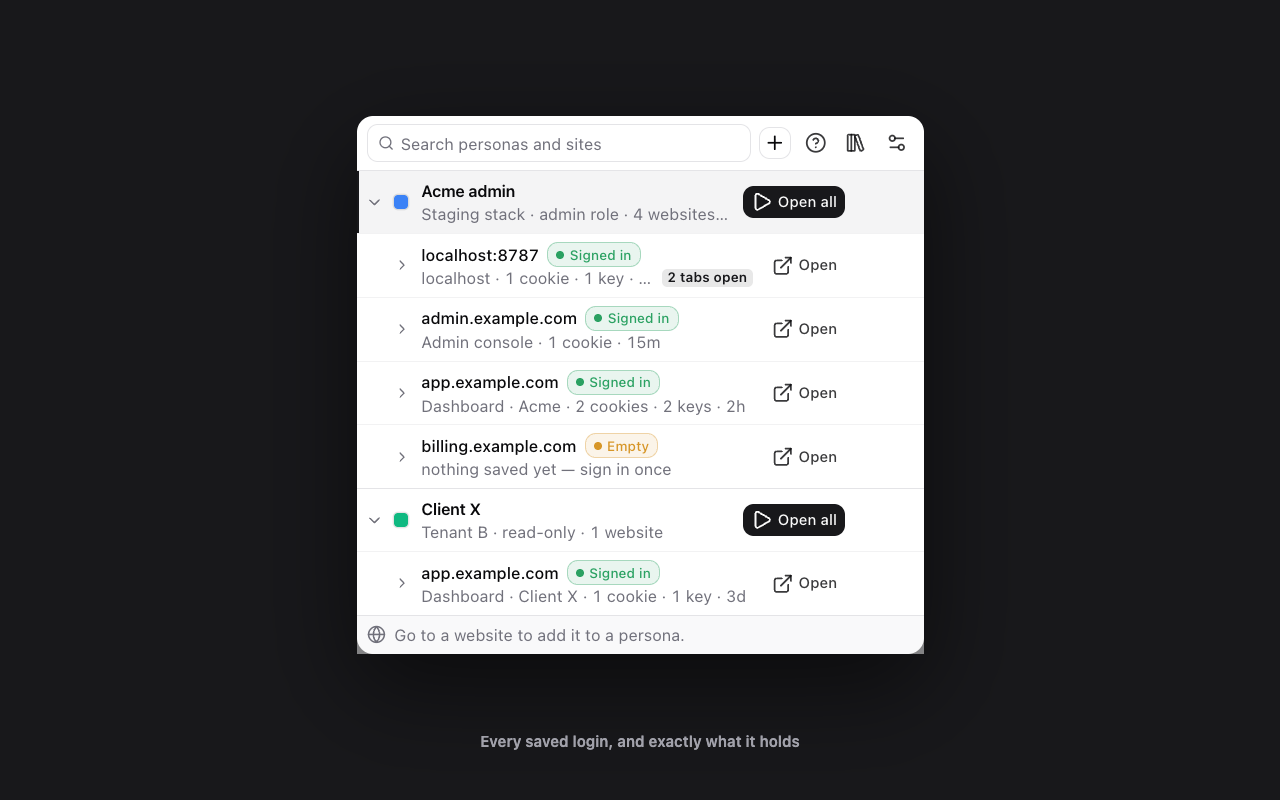
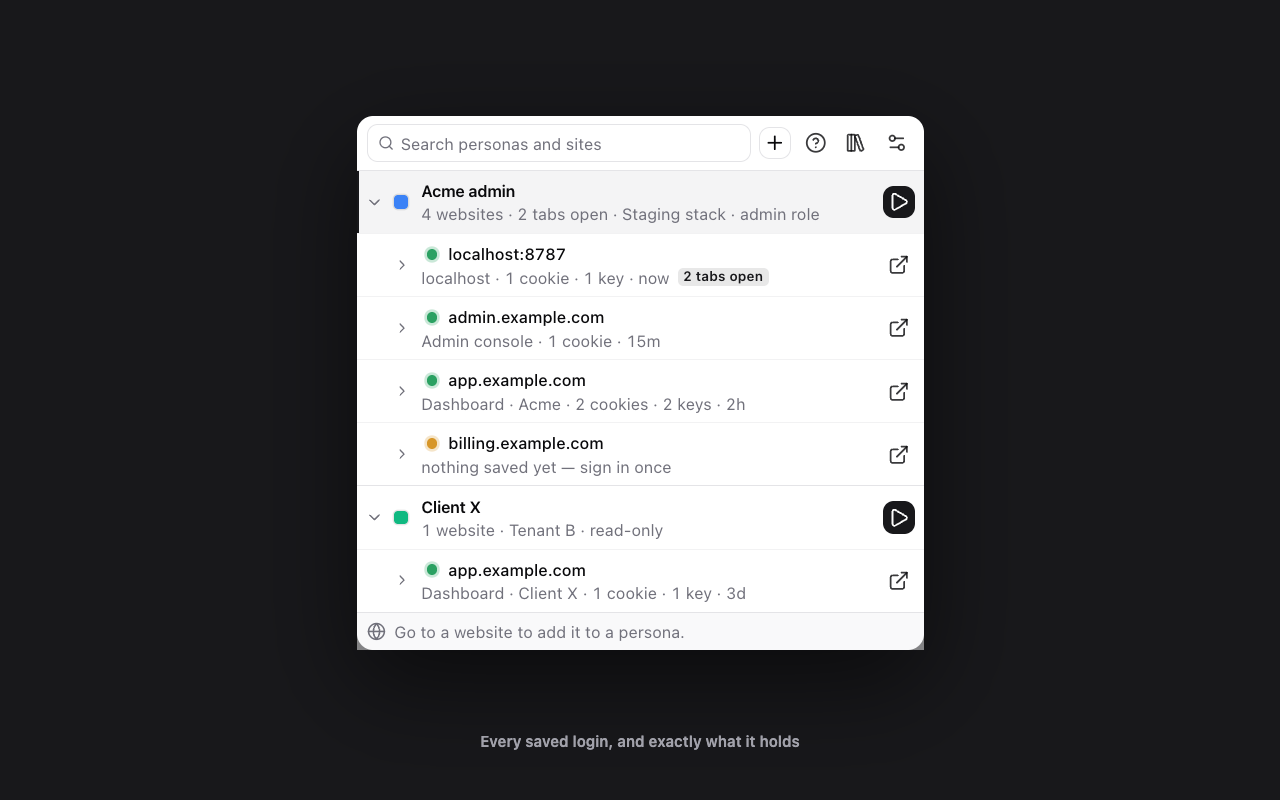
chore: release 0.3.1
Bump to 0.3.1 (manifest, both package.json files), cut the 0.3.1 changelog section.
Refresh the Store and README screenshots: the sign-in gate and the Settings sidebar
are now captured from the real built extension (spike/make-screenshots.mjs).
Update the Store listing for allow on all sites, the sign-in gate, use my normal
login on, the Settings sidebar and tab groups, and refresh the test counts.

diff --git a/brand/store/LISTING.md b/brand/store/LISTING.md
@@ -35,7 +35,14 @@ WHAT IT DOES
 • Open a whole persona in one click
 • Two accounts on one site, live at the same time
 • Duplicate a persona, logins included, to spin up another tenant
+• Every persona opens in its own Chrome tab group, named and coloured after it
 • Export and import personas
+
+SIGN-IN THROUGH OTHER WEBSITES
+Many apps sign you in through another website (WorkOS, Auth0, Okta, Google). If a persona tab reached one of those with your normal browser login, it would come back signed in as YOU. So a persona tab stops BEFORE it visits a website Tabsona is not allowed on, sends nothing, and asks: Allow and continue, Allow on all sites, or Open in a normal tab. Allow on all sites is one Chrome prompt, asked once and off until you click it. A sign-in chain you have seen is remembered, so one prompt covers it, and a red alert in the popup tells you when a persona is signed in through a website that is not allowed.
+
+USE MY NORMAL LOGIN ON CHOSEN WEBSITES
+Sign in with Google from a persona: add accounts.google.com to a short list in Settings and a persona tab reaches it with your browser's own login, while the app's own login stays separate per persona. Opt-in, nothing is on the list until you add it, and the badge on those pages says so in plain words.
 
 WHY IT IS DIFFERENT
 Most multi-login extensions isolate cookies only, so the moment an app keeps its token in localStorage — which most modern apps do — both tabs show the same user and nothing tells you. Tabsona isolates page storage too, and when it cannot fully isolate a site it SAYS SO on the tab rather than letting you assume.
@@ -46,7 +53,7 @@ WHAT IT IS NOT
 This is a developer tool for testing your own applications. It does not spoof your browser fingerprint, does not route traffic through proxies, and is not built for evading bans or platform rules. Every persona shares your real browser fingerprint.
 
 PRIVACY
-Everything stays on your machine in local extension storage. No server, no account, no telemetry, nothing is uploaded. Site access is granted one site at a time, by you, through Chrome's own permission prompt.
+Everything stays on your machine in local extension storage. No server, no account, no telemetry, nothing is uploaded. Site access is granted by you, through Chrome's own permission prompt: one website at a time, or every website once with Allow on all sites. Nothing is granted until you click.
 
 Open source: https://github.com/khanakia/tabsona
 ```
@@ -57,15 +64,15 @@ The dashboard asks for one line per permission. Vague answers are the most commo
 
 | Permission | Justification |
 |---|---|
-| `declarativeNetRequest` | Replaces the Cookie header on tabs the user has placed in a persona, so each tab sends its own saved login, and strips Set-Cookie from those responses so a persona's login does not leak into the browser's shared cookie jar. |
+| `declarativeNetRequest` | Replaces the Cookie header on tabs the user has placed in a persona, so each tab sends its own saved login, and strips Set-Cookie from those responses so a persona's login does not leak into the browser's shared cookie jar. Also blocks, for a persona tab only, a navigation to a website the user has not allowed, so the sign-in gate can ask first; the rules never apply to a tab outside a persona. |
 | `webRequest` | Read-only observation of response headers on user-approved sites, to capture the Set-Cookie a site issues into the persona that tab belongs to. No blocking and no modification is performed through this API. |
 | `cookies` | Reads the cookies of a site the user explicitly chooses to save into a persona, and removes them from the browser's own jar when the user chooses Move rather than Copy. |
 | `storage` | Stores personas, saved sessions and settings locally. Nothing is transmitted. |
 | `tabs` | Maps each tab to the persona it belongs to and opens a persona's sites as tabs. |
-| `scripting` | Injects the storage isolation script and the in-page badge on sites the user has approved. |
-| `webNavigation` | Detects a tab opened from a link inside a persona's tab, so it stays in that persona instead of falling back to the shared login. |
-| `tabGroups` | Places the tabs opened from one persona into a named Chrome tab group. |
-| `host_permissions` (optional, `*://*/*`) | Requested per site, at runtime, only when the user presses "Allow this site". No site is accessed until they do. |
+| `scripting` | Injects the storage isolation script, the in-page badge and the cookie relay into persona tabs on websites the user has approved. Nothing is injected into a website the user has not allowed. |
+| `webNavigation` | Detects a tab opened from a link inside a persona's tab, so it stays in that persona instead of falling back to the shared login. Also reports a navigation of a persona tab that was stopped before it left, so the stop can be shown and resumed. |
+| `tabGroups` | Places the tabs opened from one persona into a named, coloured Chrome tab group. Switchable off in Settings. |
+| `host_permissions` (optional, `*://*/*`) | Requested at runtime, only from a click, and only through Chrome's own prompt: for one website ("Allow this website", "Allow and continue" on the sign-in gate) or for every website at once ("Allow on all sites", a Settings row the user turns on). No website is accessed until they do; removing the grant is one click in Settings or Sites. |
 
 ## Assets
 
@@ -75,15 +82,17 @@ Upload in this order — the first screenshot is the one shown in search results
 |---|---|---|
 | `../../apps/extension/icons/icon128.png` | 128×128 | Store icon |
 | `1-popup.png` | 1280×800 | Screenshot 1 — every saved login and what it holds |
-| `2-save-menu.png` | 1280×800 | Screenshot 2 — move or copy the current login |
+| `2-gate.png` | 1280×800 | Screenshot 2 — the sign-in gate: a persona tab asks before visiting a website it is not allowed on |
 | `3-library.png` | 1280×800 | Screenshot 3 — the full library |
-| `4-coverage.png` | 1280×800 | Screenshot 4 — measured isolation per site |
-| `5-sites.png` | 1280×800 | Screenshot 5 — sites the user granted |
-| `small-1-popup.png` … `small-5-sites.png` | 640×400 | The same five, at the only other size the dashboard accepts |
+| `4-settings.png` | 1280×800 | Screenshot 4 — Settings: section list, Allow on all sites, Use my normal login on |
+| `5-coverage.png` | 1280×800 | Screenshot 5 — measured isolation per site |
+| `small-1-popup.png` … `small-5-coverage.png` | 640×400 | The same five, at the only other size the dashboard accepts |
 | `small-promo-440x280.png` | 440×280 | Small promo tile |
 | `marquee-1400x560.png` | 1400×560 | Marquee (only shown if featured) |
 
-Five is the dashboard's maximum. Everything is regenerated by `task brand` (icons, promo art) and `task screenshots` (the five frames, captured from the real built extension after a real sign-in on the fixture, so the Coverage frame reports what the engine actually observed). The surround and caption are staged; every pixel inside the frame is the product.
+`6-save-menu.png` (Move or copy) and `7-sites.png` are captured too, for the README only: the dashboard takes five.
+
+Five is the dashboard's maximum. Everything is regenerated by `task brand` (icons, promo art) and `task screenshots` (the seven frames, captured from the real built extension after a real sign-in on the fixture, so the Coverage frame reports what the engine actually observed; the gate frame is the real gate page reading a stop recorded for a real tab). The surround and caption are staged; every pixel inside the frame is the product.
 
 ## URLs for the listing
 
@@ -137,10 +146,15 @@ task package          # build, preflight, then dist/tabsona-<version>.zip
 - [x] Repo is public, so the "Open source" link in the description resolves.
 - [x] Privacy policy hosted, at the URL above.
 - [x] `task package` green, zip at `dist/tabsona-<version>.zip` with `manifest.json` at the archive root.
-- [x] `task check` green — typecheck, unit tests, build and nine end-to-end suites against the built extension.
-- [ ] Screenshots regenerated if the UI changed since the last run (`task screenshots`).
-- [ ] Bump `manifest.version` — the Store rejects a re-upload of a version it already has.
+- [x] `task check` green — typecheck, unit tests, build and thirteen end-to-end suites against the built extension.
+- [x] Screenshots regenerated for 0.3.1 (`task screenshots`).
+- [x] `manifest.version` bumped to 0.3.1 — the Store rejects a re-upload of a version it already has.
 
 ## What review will most likely question
 
-The optional `*://*/*` host permission. It is genuinely needed, because the user decides which sites to isolate and that set cannot be known in advance — but it is *optional*, requested one site at a time through Chrome's own prompt, and nothing is accessed until the user presses "Allow this site". The justification row above says exactly that; if review pushes back, the answer is the runtime-grant flow, not a narrower pattern list.
+The optional `*://*/*` host permission. It is genuinely needed, because the user decides which sites to isolate and that set cannot be known in advance, and an app's sign-in often passes through websites nobody can list in advance (WorkOS, Auth0, Google). It is *optional*: requested only from a click, through Chrome's own prompt, for one website or, since 0.3.1, for every website at once ("Allow on all sites", off until clicked and removable in Settings). Nothing is accessed until the user does. The justification row above says exactly that; if review pushes back, the answer is the runtime-grant flow, not a narrower pattern list.
+
+Two newer behaviours a reviewer may ask about:
+
+- **Blocking a persona tab's navigation (sign-in gate).** `declarativeNetRequest` blocks a main-frame navigation only for a tab the user placed in a persona, and only to a website the user has not allowed, then shows an extension page asking. It never touches a tab outside a persona, and nothing is blocked while Allow on all sites is on. The point is the opposite of evasion: it stops a persona tab silently arriving signed in as the user's normal browser login.
+- **Use my normal login on (Sign in with Google).** An opt-in list in Settings of websites a persona tab reaches with the browser's own login. It adds no permission, collects nothing, and sends no data anywhere; it only switches Tabsona's own cookie rules off for the listed websites, and says so on the page badge.

diff --git a/README.md b/README.md
@@ -11,7 +11,7 @@ Give each tab its own login session. Save, open and reuse a whole set of signed-
 [![License](https://img.shields.io/badge/license-Apache--2.0-blue.svg)](LICENSE)
 [![Manifest V3](https://img.shields.io/badge/Chrome-Manifest%20V3-4285F4.svg)](https://developer.chrome.com/docs/extensions/mv3/intro/)
 [![TypeScript](https://img.shields.io/badge/TypeScript-strict-3178C6.svg)](https://www.typescriptlang.org/)
-[![Tests](https://img.shields.io/badge/tests-488%20unit%20%2B%2028%20script%20%2B%2013%20e2e-success.svg)](#verify-it-yourself)
+[![Tests](https://img.shields.io/badge/tests-498%20unit%20%2B%2028%20script%20%2B%2013%20e2e-success.svg)](#verify-it-yourself)
 
 [How it works](docs/how-it-works.md) · [Limits](docs/limits.md) · [Privacy](https://khanakia.github.io/tabsona/privacy.html) · [Contributing](CONTRIBUTING.md) · [Security](SECURITY.md)
 
@@ -47,9 +47,11 @@ Every image is captured from the real built extension by `task screenshots`, so 
 
 | | |
 |---|---|
-| <img src="docs/shots/2-save-menu.png" alt="The Add to persona panel, asking whether to use the tab signed out, move the current login, or copy it, with what each does to your normal login" /> | <img src="docs/shots/3-library.png" alt="The options page listing every persona and its sessions" /> |
-| **Move or copy — your choice.** File the login you are already using into a persona, or start a fresh one and leave your browser alone. | **The full library.** Every persona, every saved login, and what each one holds. |
-| <img src="docs/shots/4-coverage.png" alt="The coverage report, listing each storage layer as covered, unknown or not applicable for a site" /> | <img src="docs/shots/5-sites.png" alt="The sites tab, listing the origins you have granted and the settings" /> |
+| <img src="docs/shots/2-gate.png" alt="The sign-in gate: a persona tab stopped before it visits a website Tabsona is not allowed on, offering Allow and continue, Open in a normal tab, Allow on all sites and Use my normal login" /> | <img src="docs/shots/6-save-menu.png" alt="The Add to persona panel, asking whether to use the tab signed out, move the current login, or copy it, with what each does to your normal login" /> |
+| **Asks before it leaks.** A persona tab stops before visiting a website Tabsona is not allowed on, and nothing is sent until you choose. | **Move or copy — your choice.** File the login you are already using into a persona, or start a fresh one and leave your browser alone. |
+| <img src="docs/shots/3-library.png" alt="The options page listing every persona and its sessions" /> | <img src="docs/shots/4-settings.png" alt="Settings: a section list on the left and cards for Websites, Use my normal login on, Badge on pages, Page titles and Tabs" /> |
+| **The full library.** Every persona, every saved login, and what each one holds. | **Settings.** Allow on all sites, choose the websites that use your normal login, and tune the badge, page titles and tab groups. |
+| <img src="docs/shots/5-coverage.png" alt="The coverage report, listing each storage layer as covered, unknown or not applicable for a site" /> | <img src="docs/shots/7-sites.png" alt="The sites tab, listing the origins you have granted" /> |
 | **Measured, not assumed.** Which layers are actually isolated on each site, from what the engine observed. | **You grant every site.** Nothing is touched until you allow it through Chrome's own prompt. |
 
 ## Install
@@ -147,7 +149,7 @@ Removing **Allow on all sites** keeps every website you allowed one by one.
 task check
 ```
 
-A full-history secret scan, type-check, 488 unit tests, 28 script tests, the Chrome Web Store preflight, a build, and thirteen end-to-end suites driving the **built extension** in a real Chrome.
+A full-history secret scan, type-check, 498 unit tests, 28 script tests, the Chrome Web Store preflight, a build, and thirteen end-to-end suites driving the **built extension** in a real Chrome.
 
 | Task | Proves |
 |---|---|

diff --git a/CHANGELOG.md b/CHANGELOG.md
@@ -6,6 +6,8 @@ The format is based on [Keep a Changelog](https://keepachangelog.com/en/1.1.0/),
 
 ## [Unreleased]
 
+## [0.3.1] - 2026-10-10
+
 ### Fixed
 
 - **Google's "Cookies are disabled" inside a persona.** A script's `document.cookie` now belongs to the persona: a write is stored in the session (not the browser's shared jar) and a read returns the persona's own cookies, so a provider's test-cookie check passes. A `fetch` or XHR sent right after a cookie write, or right after a response that set one, now waits until that cookie is in force instead of leaving without it. Still not covered: a navigation started straight after a cookie is set, and a cookie set on a redirect (see `docs/limits.md`). New relay content script (`relay.js`) carries the page's cookie writes and the form-POST notice from `document_start` in every frame.

diff --git a/docs/how-it-works.md b/docs/how-it-works.md
@@ -406,7 +406,7 @@ The boundary test verifies its own matcher (it asserts that it finds files, that
 
 ## How it is verified
 
-`task check` is the gate: type-check, 488 unit tests, a build, and thirteen end-to-end suites that drive the **built extension** in a real Chrome.
+`task check` is the gate: type-check, 498 unit tests, a build, and thirteen end-to-end suites that drive the **built extension** in a real Chrome.
 
 | Suite | Asserts |
 |---|---|
